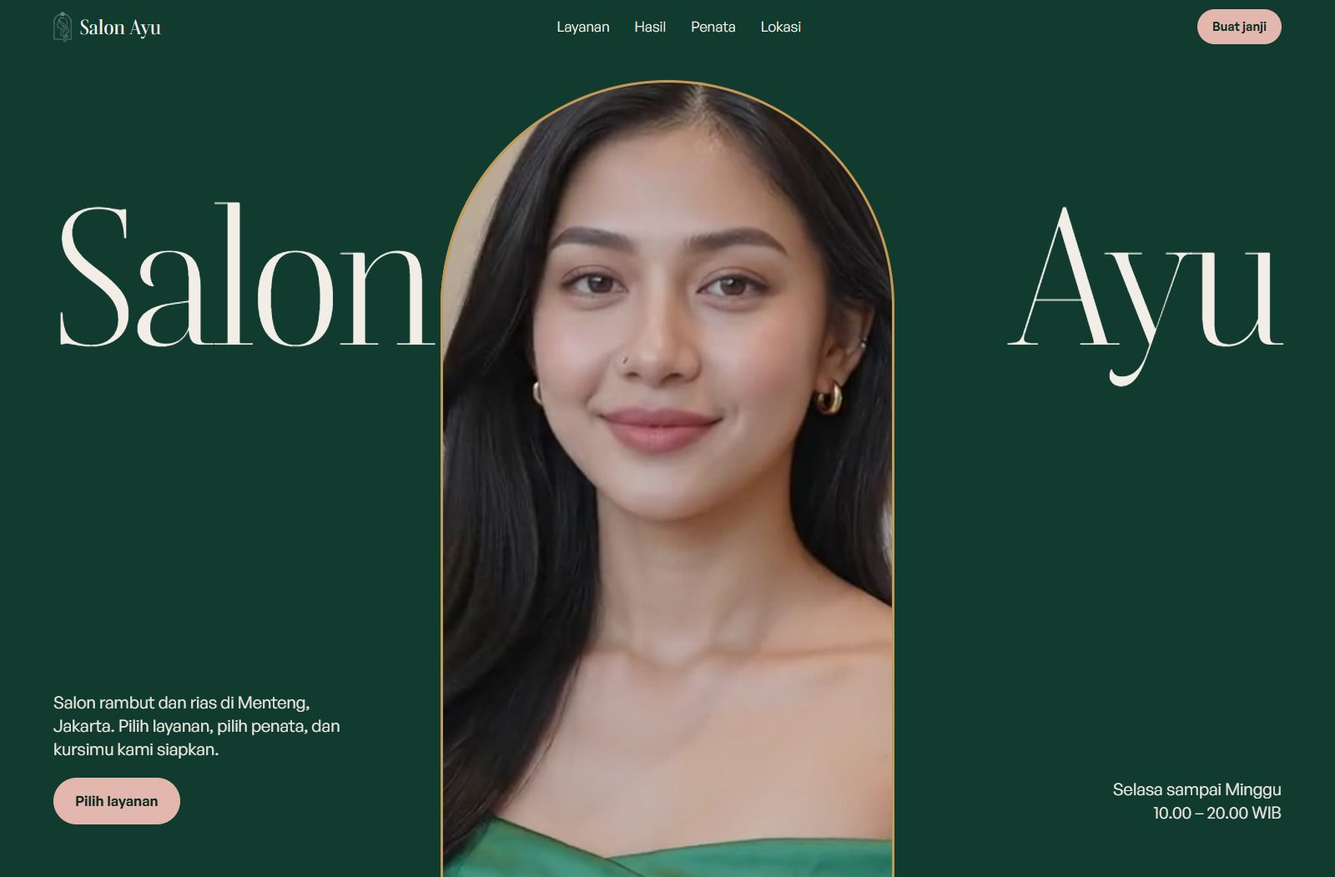
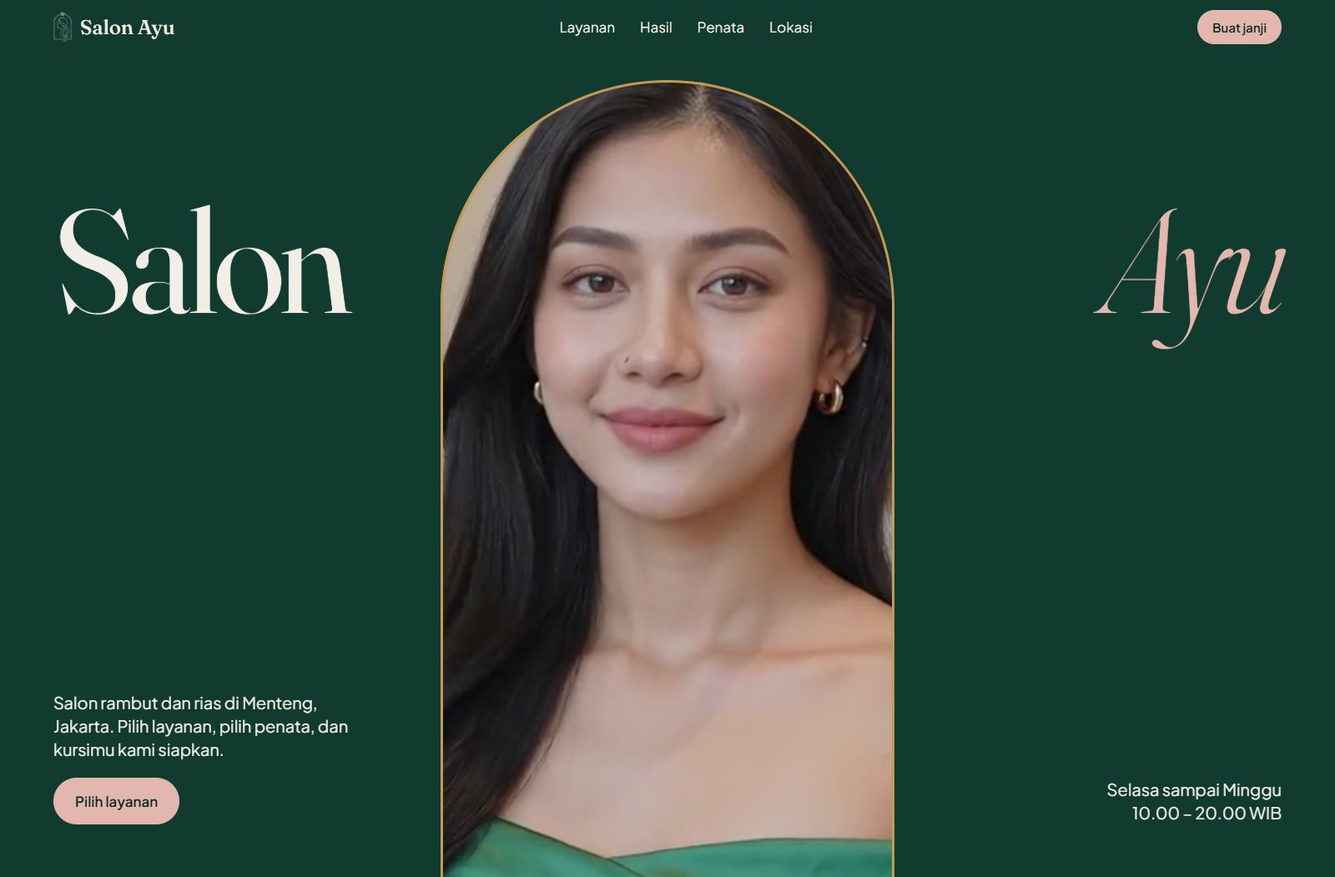
Salon Ayu: font baru, kartu janji rapi, slider, foto warna, link sosmed; nomor WA contoh tanpa nomor pribadi

diff --git a/salon-ayu/ayu.css b/salon-ayu/ayu.css
@@ -2,8 +2,8 @@
   --hijau: #123B30; --tua: #0B2A22; --krem: #F2EEE7; --kertas: #FAF8F4; --mawar: #E3B7AD; --kuningan: #C39A55;
   --tinta: #14251F; --redup: #3B4B45;
   --m: clamp(16px, 4vw, 64px);
-  --serif: "Boska", Georgia, serif; --sans: "General Sans", system-ui, sans-serif;
-  --besar: clamp(2.7rem, 6.4vw, 6.2rem);
+  --serif: "Fraunces", Georgia, serif; --sans: "Plus Jakarta Sans", system-ui, sans-serif;
+  --besar: clamp(2.5rem, 5.4vw, 5.4rem);
 }
 * { box-sizing: border-box; }
 html { scroll-behavior: smooth; scroll-padding-top: 64px; }
@@ -11,7 +11,8 @@ body { margin: 0; background: var(--krem); color: var(--tinta); font: 400 1.0625
 img, video { display: block; max-width: 100%; }
 h1, h2, h3, h4, p, ul, dl, dd, figure { margin: 0; padding: 0; }
 ul { list-style: none; }
-h1, h2 { font-family: var(--serif); font-weight: 400; line-height: .98; letter-spacing: -.02em; }
+h1, h2 { font-family: var(--serif); font-weight: 400; line-height: 1.02; letter-spacing: -.025em; }
+h1 em, h2 em, .kaki__nama em { font-weight: 300; color: var(--aksen, var(--hijau)); }
 h2 { font-size: var(--besar); }
 a { color: inherit; }
 button { font: inherit; color: inherit; cursor: pointer; }
@@ -33,21 +34,21 @@ button { font: inherit; color: inherit; cursor: pointer; }
 .bar nav a:hover { color: var(--mawar); }
 
 /* pembuka: cermin lengkung membuka jadi layar penuh, seluruh ukuran diturunkan dari --p */
-.buka { --p: 0; --t0: 3vh; --b0: 0vh; --x0: 33vw; --r0: 17vw; position: relative; height: 200vh; background: var(--hijau); color: var(--krem); }
+.buka { --aksen: var(--mawar); --p: 0; --t0: 3vh; --b0: 0vh; --x0: 33vw; --r0: 17vw; position: relative; height: 200vh; background: var(--hijau); color: var(--krem); }
 .buka__panggung { position: sticky; top: 64px; height: calc(100svh - 64px); overflow: hidden; }
 .buka__kaca, .buka__bingkai { --t: calc(var(--t0) * (1 - var(--p))); --b: calc(var(--b0) * (1 - var(--p))); --x: calc(var(--x0) * (1 - var(--p))); --r: calc(var(--r0) * (1 - var(--p))); }
 .buka__kaca { position: absolute; inset: 0; z-index: 2; clip-path: inset(var(--t) var(--x) var(--b) var(--x) round var(--r) var(--r) 0 0); }
 .buka__kaca::after { content: ""; position: absolute; inset: 0; background: linear-gradient(to top, rgba(6, 24, 18, .86), rgba(6, 24, 18, 0) 56%); opacity: calc((var(--p) - .6) * 2.5); }
 .buka__kaca video { width: 100%; height: 100%; object-fit: cover; object-position: 62% 30%; transform: translateX(calc((1 - var(--p)) * -9%)) scale(calc(1 + (1 - var(--p)) * .16)); }
 .buka__bingkai { position: absolute; z-index: 3; top: var(--t); bottom: var(--b); left: var(--x); right: var(--x); border: 3px solid var(--kuningan); border-bottom: 0; border-radius: var(--r) var(--r) 0 0; opacity: calc(1 - var(--p) * 1.6); pointer-events: none; }
-.buka h1 { position: absolute; z-index: 1; inset: 15vh 0 auto; display: flex; justify-content: space-between; padding-inline: var(--m); font-size: clamp(5rem, 14.2vw, 15rem); letter-spacing: -.035em; opacity: calc(1 - var(--p) * 2.2); }
+.buka h1 { position: absolute; z-index: 1; inset: 15vh 0 auto; display: flex; justify-content: space-between; padding-inline: var(--m); font-size: clamp(4.5rem, 11vw, 12rem); letter-spacing: -.04em; opacity: calc(1 - var(--p) * 2.2); }
 .buka h1 span:first-child { transform: translateX(calc(var(--p) * -8vw)); }
 .buka h1 span:last-child { transform: translateX(calc(var(--p) * 8vw)); }
 .buka__kiri, .buka__kanan { position: absolute; z-index: 1; bottom: clamp(28px, 6vh, 64px); opacity: calc(1 - var(--p) * 2.6); }
 .buka__kiri { left: var(--m); width: min(25vw, 380px); }
 .buka__kiri p { margin-bottom: 20px; font-size: clamp(1.02rem, 1.3vw, 1.25rem); line-height: 1.4; }
 .buka__kanan { right: var(--m); text-align: right; font-size: clamp(1.02rem, 1.3vw, 1.25rem); line-height: 1.4; }
-.buka__akhir { position: absolute; z-index: 4; left: var(--m); bottom: clamp(28px, 7vh, 72px); color: #fff; font: 400 clamp(2.7rem, 7vw, 7rem)/1 var(--serif); letter-spacing: -.02em; opacity: calc((var(--p) - .72) * 3.6); }
+.buka__akhir { position: absolute; z-index: 4; left: var(--m); bottom: clamp(28px, 7vh, 72px); color: #fff; font: 400 clamp(2.5rem, 5.6vw, 5.6rem)/1.05 var(--serif); letter-spacing: -.02em; opacity: calc((var(--p) - .72) * 3.6); }
 
 /* papan harga: cermin di kiri, daftar di kanan */
 .lengkung { overflow: hidden; border: 3px solid var(--kuningan); border-bottom-width: 0; border-radius: 999px 999px 0 0; }
@@ -63,7 +64,7 @@ button { font: inherit; color: inherit; cursor: pointer; }
 .baris { display: grid; grid-template-columns: minmax(0, 1fr) auto 100px; gap: 8px 24px; align-items: center; padding: 18px 12px; border-bottom: 1px solid #D7CFBF; transition: background .2s; }
 .baris.aktif { background: #E9E2D2; }
 .janji > h2 { grid-column: 1 / -1; }
-.baris h4 { font: 500 clamp(1.5rem, 2.3vw, 2.15rem)/1.1 var(--serif); }
+.baris h4 { font: 400 clamp(1.4rem, 2vw, 1.9rem)/1.15 var(--serif); letter-spacing: -.01em; }
 .baris p { margin-top: 4px; color: var(--redup); font-size: 1rem; line-height: 1.35; }
 .baris > b { font-weight: 500; white-space: nowrap; }
 .tambah { padding: 9px 0; border: 1.5px solid var(--hijau); border-radius: 999px; background: transparent; color: var(--hijau); font-weight: 600; font-size: .94rem; transition: background .2s, color .2s; }
@@ -80,17 +81,18 @@ button { font: inherit; color: inherit; cursor: pointer; }
 .ruang__b img { width: 100%; height: 100%; object-fit: cover; object-position: 55% 50%; }
 
 /* hasil */
-.hasil { display: grid; grid-template-columns: minmax(0, 1fr) minmax(0, 1fr); gap: clamp(32px, 6vw, 100px); align-items: end; padding: clamp(72px, 9vw, 130px) var(--m) 0; background: var(--hijau); color: var(--krem); }
-.hasil__teks { align-self: center; padding-bottom: clamp(0px, 4vw, 60px); }
+.hasil { --aksen: var(--mawar); display: grid; grid-template-columns: minmax(0, 1fr) minmax(0, 1fr); gap: clamp(32px, 6vw, 100px); align-items: center; padding: clamp(56px, 6vw, 88px) var(--m); background: var(--hijau); color: var(--krem); }
 .hasil__teks p { max-width: 42ch; margin: 20px 0 26px; font-size: 1.15rem; }
 .pilih { display: inline-flex; gap: 8px; }
 .pilih button { padding: 10px 22px; border: 1.5px solid var(--krem); border-radius: 999px; background: transparent; color: var(--krem); font-weight: 600; }
 .pilih button[aria-pressed="true"] { background: var(--krem); color: var(--hijau); }
-.geser { --x: 50%; position: relative; aspect-ratio: 4 / 5.2; max-height: 82vh; justify-self: center; width: 100%; max-width: 620px; background: var(--tua); touch-action: pan-y; }
-.geser img { position: absolute; inset: 0; width: 100%; height: 100%; object-fit: cover; object-position: 50% 25%; }
-#sebelum { clip-path: inset(0 calc(100% - var(--x)) 0 0); }
+.geser { --x: 50%; --z: 1; position: relative; justify-self: center; height: min(76vh, 720px); aspect-ratio: 4 / 5; max-width: 100%; border-bottom-width: 3px; background: var(--tua); touch-action: pan-y; }
+.geser__lap { position: absolute; inset: 0; overflow: hidden; }
+.geser__lap--a { clip-path: inset(0 calc(100% - var(--x)) 0 0); }
+/* wajah dibesarkan di dalam lapisan supaya garis geser tetap sejajar */
+.geser img { position: absolute; inset: 0; width: 100%; height: 100%; object-fit: cover; object-position: 50% 28%; transform: scale(var(--z)); transform-origin: 53% 30%; }
 .geser__garis { position: absolute; top: 0; bottom: 0; left: var(--x); width: 2px; background: #fff; pointer-events: none; }
-.geser__garis b { position: absolute; top: 56%; left: 50%; display: grid; place-items: center; width: 48px; height: 48px; border-radius: 50%; background: #fff; color: var(--hijau); transform: translate(-50%, -50%); }
+.geser__garis b { position: absolute; top: 84%; left: 50%; display: grid; place-items: center; width: 48px; height: 48px; border-radius: 50%; background: #fff; color: var(--hijau); transform: translate(-50%, -50%); }
 .geser input { position: absolute; inset: 0; width: 100%; height: 100%; margin: 0; opacity: 0; cursor: ew-resize; }
 .geser small { position: absolute; bottom: 14px; padding: 3px 12px; border-radius: 999px; background: var(--tua); color: var(--krem); font-size: .9rem; pointer-events: none; }
 .geser__a { left: 14px; } .geser__b { right: 14px; }
@@ -102,13 +104,13 @@ button { font: inherit; color: inherit; cursor: pointer; }
 .orang img { width: 100%; height: clamp(320px, 42vw, 640px); object-fit: cover; }
 .orang:last-child img { height: clamp(280px, 32vw, 500px); }
 .orang span { display: flex; align-items: baseline; gap: 12px; flex-wrap: wrap; margin-top: 12px; padding-right: 110px; }
-.orang b { font: 500 2rem/1 var(--serif); }
+.orang b { font: 400 2rem/1 var(--serif); }
 .orang small { color: var(--redup); font-size: 1rem; }
 .orang em { position: absolute; right: 0; bottom: 0; padding: 8px 14px; border: 1.5px solid var(--hijau); border-radius: 999px; color: var(--hijau); font-style: normal; font-weight: 600; font-size: .92rem; }
 .orang[aria-pressed="true"] em { background: var(--hijau); color: var(--krem); }
 
 /* janji: dinding mawar, kartu cetak */
-.janji { display: grid; grid-template-columns: minmax(0, 7fr) minmax(0, 5fr); gap: clamp(32px, 6vw, 96px); align-items: start; padding: clamp(72px, 9vw, 130px) var(--m); background: var(--mawar); }
+.janji { display: grid; grid-template-columns: minmax(0, 7fr) minmax(0, 5fr); gap: 32px clamp(32px, 5vw, 80px); align-items: start; padding: clamp(72px, 9vw, 130px) var(--m); background: var(--mawar); }
 .seg { min-width: 0; margin: 0 0 24px; padding: 0; border: 0; }
 .seg legend, .f span { display: block; padding: 0; margin-bottom: 8px; font-weight: 600; font-size: 1rem; }
 .seg > div { display: flex; flex-wrap: wrap; gap: 8px; }
@@ -130,10 +132,12 @@ button { font: inherit; color: inherit; cursor: pointer; }
 .akun button { padding: 5px 13px; border: 0; border-radius: 999px; background: var(--krem); font-size: .92rem; }
 .galat { min-height: 24px; margin: 12px 0 4px; color: #8C1D18; font-weight: 600; }
 .catat { margin-top: 10px; font-size: 1rem; line-height: 1.4; }
-.kartu { position: sticky; top: 92px; padding: 30px 28px 26px; background: var(--kertas); transform: rotate(1.2deg); }
-.kartu > img { width: 46px; height: auto; margin-inline: auto; }
-.kartu h3 { margin: 10px 0 18px; text-align: center; font: 500 2.1rem/1 var(--serif); }
-.kartu dl div { display: grid; grid-template-columns: 96px minmax(0, 1fr); gap: 8px; padding: 8px 0; border-bottom: 1px solid #DDD5C5; }
+.kartu { position: sticky; top: 92px; overflow: hidden; border-radius: 14px; background: var(--kertas); }
+.kartu__kepala { display: flex; align-items: center; gap: 16px; padding: 20px 26px; background: var(--hijau); color: var(--krem); }
+.kartu__kepala img { width: 38px; height: auto; }
+.kartu h3 { font: 400 2rem/1 var(--serif); letter-spacing: -.02em; }
+.kartu__isi { padding: 10px 26px 24px; }
+.kartu dl div { display: grid; grid-template-columns: 90px minmax(0, 1fr); gap: 8px; padding: 8px 0; border-bottom: 1px solid #DDD5C5; }
 .kartu dt { color: var(--redup); font-size: 1rem; }
 .kartu dd { font-weight: 500; line-height: 1.3; }
 #kList { margin: 14px 0; }
@@ -146,7 +150,7 @@ button { font: inherit; color: inherit; cursor: pointer; }
 .kartu__dp b { font-size: 1.5rem; font-weight: 600; color: var(--hijau); }
 
 /* lokasi */
-.lokasi { position: relative; display: flex; align-items: flex-end; min-height: calc(100svh - 64px); padding: var(--m); background: url(img/depan.jpg) center 62% / cover; color: #fff; }
+.lokasi { --aksen: var(--mawar); position: relative; display: flex; align-items: flex-end; min-height: calc(100svh - 64px); padding: var(--m); background: url(img/depan.jpg) center 62% / cover; color: #fff; }
 .lokasi::before { content: ""; position: absolute; inset: 0; background: linear-gradient(to top, rgba(6, 24, 18, .9), rgba(6, 24, 18, .35) 55%, rgba(6, 24, 18, 0)); }
 .lokasi__isi { position: relative; display: grid; grid-template-columns: minmax(0, 1fr) minmax(0, 1fr); gap: 8px clamp(32px, 6vw, 96px); width: 100%; }
 .lokasi__isi h2 { grid-column: 1; }
@@ -156,11 +160,14 @@ button { font: inherit; color: inherit; cursor: pointer; }
 .kontak a:hover { transform: translateX(6px); }
 .kontak b { font-weight: 600; font-size: 1.1rem; line-height: 1.3; }
 
-.kaki { display: flex; justify-content: space-between; align-items: flex-end; gap: 20px; flex-wrap: wrap; padding: 40px var(--m); background: var(--tua); color: var(--krem); }
-.kaki__nama { font: 400 clamp(3rem, 12vw, 12rem)/.9 var(--serif); letter-spacing: -.03em; }
+.kaki { --aksen: var(--mawar); display: flex; justify-content: space-between; align-items: flex-end; gap: 20px; flex-wrap: wrap; padding: 40px var(--m); background: var(--tua); color: var(--krem); }
+.kaki__nama { font: 400 clamp(3rem, 10vw, 10rem)/1 var(--serif); letter-spacing: -.04em; }
+.kaki__link { text-align: right; }
+.kaki__link nav { display: flex; flex-wrap: wrap; gap: 8px 22px; margin-bottom: 10px; font-weight: 600; }
 
 .apung { position: fixed; z-index: 40; left: 50%; bottom: 16px; display: flex; gap: 18px; align-items: center; width: max-content; max-width: calc(100vw - 32px); padding: 12px 22px; border-radius: 999px; background: var(--tua); color: var(--krem); text-decoration: none; transform: translateX(-50%); box-shadow: 0 10px 28px rgba(0, 0, 0, .3); }
 .apung b { color: var(--mawar); }
+.apung.sembunyi { display: none; }
 
 .js .baris, .js .ruang figure, .js .ruang__teks, .js .orang { opacity: 0; transform: translateY(18px); transition: opacity .6s, transform .6s; }
 .js .baris.in, .js .ruang figure.in, .js .ruang__teks.in, .js .orang.in { opacity: 1; transform: none; }
@@ -170,7 +177,7 @@ button { font: inherit; color: inherit; cursor: pointer; }
   .bar nav { display: none; }
   .bar__nama { font-size: 1.35rem; }
   .buka { --t0: 16svh; --b0: 24svh; --x0: 13vw; --r0: 37vw; height: 180vh; }
-  .buka h1 { inset: 2svh 0 auto; justify-content: center; gap: .24em; font-size: 21vw; }
+  .buka h1 { inset: 3svh 0 auto; justify-content: center; gap: .22em; font-size: 17.5vw; }
   .buka h1 span { transform: none !important; }
   /* lebar penuh 16:9 dari tinggi panggung, wajah (59% video) tepat di tengah cermin */
   .buka__kaca video { position: absolute; top: 0; left: calc(50vw - (100svh - 64px) * 1.05); width: calc((100svh - 64px) * 1.78); max-width: none; transform: scale(calc(.62 + var(--p) * .38)); transform-origin: 59% 46%; }
@@ -193,7 +200,8 @@ button { font: inherit; color: inherit; cursor: pointer; }
   .ruang__b { margin: 28px var(--m) 0; height: 86vw; }
 
   .hasil { grid-template-columns: minmax(0, 1fr); padding-top: 64px; }
-  .geser { max-height: none; }
+  .geser { width: 100%; height: auto; }
+  .kaki__link { text-align: left; }
 
   .penata__baris { grid-template-columns: minmax(0, 1fr); }
   .orang img, .orang:last-child img { height: 104vw; }

diff --git a/salon-ayu/index.html b/salon-ayu/index.html
@@ -5,11 +5,11 @@
 <meta name="viewport" content="width=device-width, initial-scale=1">
 <title>Salon Ayu — salon rambut dan rias di Menteng, Jakarta</title>
 <meta name="description" content="Contoh website salon buatan alvenix: pilih layanan dan penata, atur jam, bayar DP dengan QRIS, e-wallet, atau m-banking, janji langsung masuk WhatsApp salon.">
-<link rel="preconnect" href="https://api.fontshare.com">
-<link rel="preconnect" href="https://cdn.fontshare.com" crossorigin>
-<link href="https://api.fontshare.com/v2/css?f[]=boska@400,500,700,400i,500i&f[]=general-sans@400,500,600&display=swap" rel="stylesheet">
+<link rel="preconnect" href="https://fonts.googleapis.com">
+<link rel="preconnect" href="https://fonts.gstatic.com" crossorigin>
+<link href="https://fonts.googleapis.com/css2?family=Fraunces:ital,opsz,wght@0,9..144,300..600;1,9..144,300..600&family=Plus+Jakarta+Sans:wght@400;500;600;700&display=swap" rel="stylesheet">
 <link rel="icon" href="img/logo.png" type="image/png">
-<link rel="stylesheet" href="ayu.css?v=3">
+<link rel="stylesheet" href="ayu.css?v=5">
 </head>
 <body>
 <p class="ribbon">Contoh website buatan alvenix. <a href="../">Bikin seperti ini</a></p>
@@ -23,7 +23,7 @@
 <main id="top">
   <section class="buka" id="buka" aria-label="Salon Ayu">
     <div class="buka__panggung">
-      <h1><span>Salon</span> <span>Ayu</span></h1>
+      <h1><span>Salon</span> <span><em>Ayu</em></span></h1>
       <div class="buka__kaca">
         <video src="img/cermin.mp4" poster="img/cermin-awal.jpg" autoplay muted loop playsinline aria-label="Penata menyisir rambut tamu sampai berkilau"></video>
       </div>
@@ -43,7 +43,7 @@
       <p id="kacaKet"></p>
     </div>
     <div class="layanan__papan">
-      <h2>Papan harga</h2>
+      <h2>Papan <em>harga</em></h2>
       <p class="layanan__intro">Ketuk untuk melihatnya di cermin, lalu tambahkan ke kartu janji. Harga sudah termasuk cuci dan blow.</p>
       <div id="papan"></div>
     </div>
@@ -52,7 +52,7 @@
   <section class="ruang" aria-label="Ruangan salon">
     <figure class="ruang__a"><img src="img/kursi.jpg" alt="Deretan kursi beludru hijau menghadap cermin bundar" width="1500" height="1120" loading="lazy"></figure>
     <div class="ruang__teks">
-      <h2>Kursi beludru, keramik hijau</h2>
+      <h2>Kursi beludru, <em>keramik hijau</em></h2>
       <p>Kursi di sini cuma empat. Satu penata pegang satu tamu sampai selesai, jadi kamu tidak ditinggal setengah jalan.</p>
       <p>Tempat keramasnya kami taruh di ruang belakang yang tenang, dengan sandaran empuk dan air hangat.</p>
     </div>
@@ -61,7 +61,7 @@
 
   <section class="hasil" id="hasil">
     <div class="hasil__teks">
-      <h2>Geser, lihat bedanya</h2>
+      <h2>Geser, <em>lihat bedanya</em></h2>
       <p id="hasilKet"></p>
       <div class="pilih" role="group" aria-label="Pilih contoh hasil">
         <button type="button" data-pasang="rambut" aria-pressed="true">Rambut</button>
@@ -69,8 +69,8 @@
       </div>
     </div>
     <div class="geser lengkung" id="geser" style="--x:50%">
-      <img id="sesudah" src="img/sesudah-rambut.jpg" alt="Sesudah" width="1100" height="1640" loading="lazy">
-      <img id="sebelum" src="img/sebelum-rambut.jpg" alt="Sebelum" width="1100" height="1640" loading="lazy">
+      <div class="geser__lap"><img id="sesudah" src="img/sesudah-rambut.jpg" alt="Sesudah" width="1100" height="1640" loading="lazy"></div>
+      <div class="geser__lap geser__lap--a"><img id="sebelum" src="img/sebelum-rambut.jpg" alt="Sebelum" width="1100" height="1640" loading="lazy"></div>
       <span class="geser__garis" aria-hidden="true"><b>↔</b></span>
       <input type="range" id="geserIn" min="0" max="100" value="50" aria-label="Geser untuk membandingkan sebelum dan sesudah">
       <small class="geser__a">Sebelum</small><small class="geser__b">Sesudah</small>
@@ -78,12 +78,12 @@
   </section>
 
   <section class="penata" id="penata">
-    <h2>Yang pegang rambutmu</h2>
+    <h2>Yang pegang <em>rambutmu</em></h2>
     <div class="penata__baris" id="penataList"></div>
   </section>
 
   <section class="janji" id="janji">
-    <h2>Atur janji</h2>
+    <h2>Atur <em>janji</em></h2>
     <form id="form" novalidate>
       <fieldset class="seg"><legend>Hari</legend><div id="hari" class="geserx"></div></fieldset>
       <fieldset class="seg"><legend>Jam</legend><div id="jam" class="grid-jam"></div></fieldset>
@@ -101,8 +101,8 @@
     </form>
 
     <aside class="kartu" aria-label="Kartu janji">
-      <img src="img/logo.png" alt="" width="52" height="84">
-      <h3>Kartu janji</h3>
+      <div class="kartu__kepala"><img src="img/logo-terang.png" alt="" width="40" height="64"><h3>Kartu janji</h3></div>
+      <div class="kartu__isi">
       <dl>
         <div><dt>Atas nama</dt><dd id="kNama">—</dd></div>
         <div><dt>Hari</dt><dd id="kHari">—</dd></div>
@@ -112,18 +112,19 @@
       <ul id="kList"></ul>
       <p class="kartu__total"><span>Perkiraan total</span><b id="kTotal">Rp0</b></p>
       <p class="kartu__dp"><span>DP 30%</span><b id="kDp">Rp0</b></p>
+      </div>
     </aside>
   </section>
 
   <section class="lokasi" id="lokasi">
     <div class="lokasi__isi">
-      <h2>Ruko hijau di Cikini</h2>
+      <h2>Ruko hijau <em>di Cikini</em></h2>
       <p>Selasa sampai Minggu, 10.00 – 20.00 WIB. Senin libur.</p>
-      <!-- contoh: ganti link & nama akun dengan milik salon -->
+      <!-- contoh: sementara memakai akun alvenix, ganti dengan milik salon -->
       <ul class="kontak">
-        <li><a href="https://wa.me/6282264116532" target="_blank" rel="noopener"><span>WhatsApp</span><b>0822 6411 6532</b></a></li>
-        <li><a href="https://www.instagram.com/" target="_blank" rel="noopener"><span>Instagram</span><b>@salonayu</b></a></li>
-        <li><a href="https://www.tiktok.com/" target="_blank" rel="noopener"><span>TikTok</span><b>@salonayu</b></a></li>
+        <li><a href="https://api.whatsapp.com/send?text=Halo%20Salon%20Ayu" target="_blank" rel="noopener"><span>WhatsApp</span><b>08122*******</b></a></li>
+        <li><a href="https://www.instagram.com/alvenixx/" target="_blank" rel="noopener"><span>Instagram</span><b>@alvenixx</b></a></li>
+        <li><a href="https://www.tiktok.com/@alvenix31" target="_blank" rel="noopener"><span>TikTok</span><b>@alvenix31</b></a></li>
         <li><a href="https://www.google.com/maps/search/?api=1&query=Jalan+Cikini+Raya+Menteng+Jakarta+Pusat" target="_blank" rel="noopener"><span>Alamat</span><b>Jl. Cikini Raya, Menteng, Jakarta Pusat</b></a></li>
       </ul>
     </div>
@@ -131,14 +132,17 @@
 </main>
 
 <footer class="kaki">
-  <p class="kaki__nama">Salon Ayu</p>
-  <p>Website oleh <a href="../">alvenix</a></p>
+  <p class="kaki__nama">Salon <em>Ayu</em></p>
+  <div class="kaki__link">
+    <nav aria-label="Kontak salon"><a href="https://api.whatsapp.com/send?text=Halo%20Salon%20Ayu" target="_blank" rel="noopener">WhatsApp</a><a href="https://www.instagram.com/alvenixx/" target="_blank" rel="noopener">Instagram</a><a href="https://www.tiktok.com/@alvenix31" target="_blank" rel="noopener">TikTok</a><a href="https://www.google.com/maps/search/?api=1&query=Jalan+Cikini+Raya+Menteng+Jakarta+Pusat" target="_blank" rel="noopener">Maps</a></nav>
+    <p>Website oleh <a href="../">alvenix</a></p>
+  </div>
 </footer>
 
 <a class="apung" id="apung" href="#janji" hidden><span id="apungTeks"></span><b>Atur janji</b></a>
 
 <script src="../config.js?v=20261030y"></script>
 <script src="../shared.js?v=20261030f"></script>
-<script src="ayu.js?v=1"></script>
+<script src="ayu.js?v=4"></script>
 </body>
 </html>

diff --git a/salon-ayu/ayu.js b/salon-ayu/ayu.js
@@ -1,14 +1,14 @@
 /* Salon Ayu: papan harga di cermin, kartu janji, kirim ke WhatsApp salon.
    shortcut: jadwal penata dan DP dicek manual oleh admin; slot real-time butuh backend + payment gateway. */
 (() => {
-  const CFG = window.HQ_CONFIG || {}, S = window.HQ_SHARED;
+  const S = window.HQ_SHARED;
   const $ = s => document.querySelector(s), $$ = s => [...document.querySelectorAll(s)];
   const esc = s => String(s ?? "").replace(/[&<>"']/g, c => ({ "&": "&amp;", "<": "&lt;", ">": "&gt;", '"': "&quot;", "'": "&#39;" }[c]));
 
   const LAYANAN = [
     { g: "Rambut", id: "potong", n: "Potong dan blow", f: "Konsultasi bentuk wajah dulu, baru digunting", h: 120000, d: 60, foto: "potong", pos: "62% 50%" },
     { g: "Rambut", id: "creambath", n: "Creambath", f: "Pijat kepala dan bahu, masker rambut", h: 95000, d: 60, foto: "creambath", pos: "58% 50%" },
-    { g: "Rambut", id: "warna", n: "Warna rambut", f: "Harga menyesuaikan panjang rambut", h: 450000, d: 150, mulai: true, foto: "warna", pos: "62% 50%" },
+    { g: "Rambut", id: "warna", n: "Warna rambut", f: "Harga menyesuaikan panjang rambut", h: 450000, d: 150, mulai: true, foto: "warna-cokelat", pos: "54% 50%" },
     { g: "Wajah", id: "facial", n: "Facial", f: "Bersih pori, masker, pijat wajah", h: 180000, d: 60, foto: "facial", pos: "48% 50%" },
     { g: "Wajah", id: "rias", n: "Rias acara", f: "Wisuda, lamaran, kondangan", h: 350000, d: 60, foto: "makeup", pos: "50% 50%" },
     { g: "Wajah", id: "hijab", n: "Tata hijab", f: "Lipit rapi, kuat sampai acara selesai", h: 100000, d: 30, foto: "hijab", pos: "64% 50%" },
@@ -19,8 +19,8 @@
     { id: "raka", n: "Raka", p: "Rias acara dan pengantin", foto: "penata-raka", pos: "62% 30%" }
   ];
   const PASANG = {
-    rambut: { a: "sebelum-rambut", b: "sesudah-rambut", ket: "Rambut lepek dan tipis, keluar dengan gelombang lembut dan kilau yang tahan sampai malam." },
-    makeup: { a: "sebelum-makeup", b: "sesudah-makeup", ket: "Rias tipis yang tetap kelihatan seperti wajahmu sendiri, hanya lebih segar." }
+    rambut: { a: "sebelum-rambut", b: "sesudah-rambut", z: 1.42, ket: "Rambut lepek dan tipis, keluar dengan gelombang lembut dan kilau yang tahan sampai malam." },
+    makeup: { a: "sebelum-makeup", b: "sesudah-makeup", z: 1.12, ket: "Rias tipis yang tetap kelihatan seperti wajahmu sendiri, hanya lebih segar." }
   };
   const BAYAR = {
     "QRIS": () => `<div class="qris"><svg viewBox="0 0 21 21" role="img" aria-label="Contoh kode QRIS">${qr()}</svg><div><b>Salon Ayu</b><p>Pindai dengan aplikasi bank atau e-wallet apa pun, lalu masukkan ${S.rupiah(dp())}.</p><p>Kode ini contoh. Di website asli diganti QRIS milik salon.</p></div></div>`,
@@ -125,7 +125,7 @@
   $("#geserIn").addEventListener("input", e => geser.style.setProperty("--x", e.target.value + "%"));
   function pasang(k) {
     const P = PASANG[k];
-    $("#sebelum").src = `img/${P.a}.jpg`; $("#sesudah").src = `img/${P.b}.jpg`; $("#hasilKet").textContent = P.ket;
+    $("#sebelum").src = `img/${P.a}.jpg`; $("#sesudah").src = `img/${P.b}.jpg`; $("#hasilKet").textContent = P.ket; geser.style.setProperty("--z", P.z);
     $$("[data-pasang]").forEach(b => b.setAttribute("aria-pressed", b.dataset.pasang === k));
   }
 
@@ -155,7 +155,8 @@
     const teks = `Halo Salon Ayu, saya mau buat janji.\n\nNo. janji: *${S.kode("SA", 4)}*\nNama: ${nama}\nHari: ${fmtHari(J.hari)}\nJam: ${J.jam} WIB (${lama(durasi())})\nPenata: ${PENATA.find(p => p.id === J.penata)?.n || "Siapa saja"}\n\n` +
       r.map(l => `- ${l.n}: ${harga(l)}`).join("\n") + `\n\n*Perkiraan total: ${S.rupiah(total())}*\n*DP 30%: ${S.rupiah(dp())}*\nBayar DP: ${kel}` +
       (cat ? `\nCatatan: ${cat}` : "") + "\n\nBukti DP saya kirim setelah ini.";
-    window.open(S.waLink(CFG.waKantor, teks), "_blank", "noopener");
+    // contoh: tanpa nomor tujuan, di website asli diganti nomor salon
+    window.open(`https://api.whatsapp.com/send?text=${encodeURIComponent(teks)}`, "_blank", "noopener");
   });
 
   /* ---------- cermin membuka saat digulir ---------- */
@@ -170,6 +171,10 @@
   const io = new IntersectionObserver(es => es.forEach(x => { if (x.isIntersecting) { x.target.classList.add("in"); io.unobserve(x.target); } }), { threshold: .12 });
   document.documentElement.classList.add("js");
   $$(".baris, .ruang figure, .ruang__teks, .orang, .kartu").forEach((el, i) => { el.style.transitionDelay = (i % 3) * 60 + "ms"; io.observe(el); });
+
+  // tombol apung tidak perlu saat kartu janji dan kontak sudah terlihat
+  const ioApung = new IntersectionObserver(es => es.forEach(x => $("#apung").classList.toggle("sembunyi", x.isIntersecting)));
+  ioApung.observe($("#janji")); new IntersectionObserver(es => es.forEach(x => { if (x.isIntersecting) $("#apung").classList.add("sembunyi"); else if ($("#janji").getBoundingClientRect().top > innerHeight) $("#apung").classList.remove("sembunyi"); })).observe($(".lokasi"));
 
   pasang("rambut"); lihat("potong"); render(); gulir();
 })();

diff --git a/kopi-senja/senja.js b/kopi-senja/senja.js
@@ -1,10 +1,9 @@
 /* Kopi Senja: menu per jam langit, bon pesanan, kirim ke WhatsApp pemilik.
    shortcut: pembayaran dicek manual oleh pemilik; konfirmasi otomatis butuh payment gateway (Midtrans/Xendit) + backend. */
 (() => {
-  const CFG = window.HQ_CONFIG || {}, S = window.HQ_SHARED;
+  const S = window.HQ_SHARED;
   const $ = s => document.querySelector(s), $$ = s => [...document.querySelectorAll(s)];
   const esc = s => String(s ?? "").replace(/[&<>"']/g, c => ({ "&": "&amp;", "<": "&lt;", ">": "&gt;", '"': "&quot;", "'": "&#39;" }[c]));
-  const WA = CFG.waKantor;
 
   const LANGIT = {
     sore: { warna: "#F2B24E", tinta: "#1C2430", judul: "Sore, jam tiga", isi: "Panas mulai turun. Kopi seduh dan teh dingin." },
@@ -140,7 +139,8 @@
     const teks = `Halo Kopi Senja, saya mau pesan.\n\nNo. pesanan: *${S.kode("KS", 4)}*\nNama: ${nama}\nTerima: ${terima}${terima === "Antar" ? `\nAlamat: ${alamat}` : ""}\n\n` +
       r.map(m => `${m.q}x ${m.n} = ${S.rupiah(m.h * m.q)}`).join("\n") + `\n\n*Total: ${S.rupiah(total())}*\nBayar: ${bayar}` +
       ($("#fCatatan").value.trim() ? `\nCatatan: ${$("#fCatatan").value.trim()}` : "") + "\n\nBukti bayar saya kirim setelah ini.";
-    window.open(S.waLink(WA, teks), "_blank", "noopener");
+    // contoh: tanpa nomor tujuan, di website asli diganti nomor kedai
+    window.open(`https://api.whatsapp.com/send?text=${encodeURIComponent(teks)}`, "_blank", "noopener");
   });
 
   /* ---------- muncul saat di-scroll ---------- */

diff --git a/kopi-senja/index.html b/kopi-senja/index.html
@@ -90,7 +90,7 @@
       <div><h2>Datang sebelum gelap</h2><p>Selasa sampai Minggu, 15.00 – 23.00 WIB. Senin libur.</p></div>
       <!-- contoh: ganti link & nama akun dengan milik toko -->
       <ul class="kontak">
-        <li><a href="https://wa.me/6282264116532" target="_blank" rel="noopener"><span>WhatsApp</span><b>0822 6411 6532</b></a></li>
+        <li><a href="https://api.whatsapp.com/send?text=Halo%20Kopi%20Senja" target="_blank" rel="noopener"><span>WhatsApp</span><b>08122*******</b></a></li>
         <li><a href="https://www.instagram.com/" target="_blank" rel="noopener"><span>Instagram</span><b>@kopisenja</b></a></li>
         <li><a href="https://www.tiktok.com/" target="_blank" rel="noopener"><span>TikTok</span><b>@kopisenja</b></a></li>
         <li><a href="https://www.google.com/maps/search/?api=1&query=Sungai+Batanghari+Kota+Jambi" target="_blank" rel="noopener"><span>Alamat</span><b>Tepi Sungai Batanghari, Kota Jambi</b></a></li>
@@ -108,6 +108,6 @@
 
 <script src="../config.js?v=20261030y"></script>
 <script src="../shared.js?v=20261030f"></script>
-<script src="senja.js?v=8"></script>
+<script src="senja.js?v=9"></script>
 </body>
 </html>
